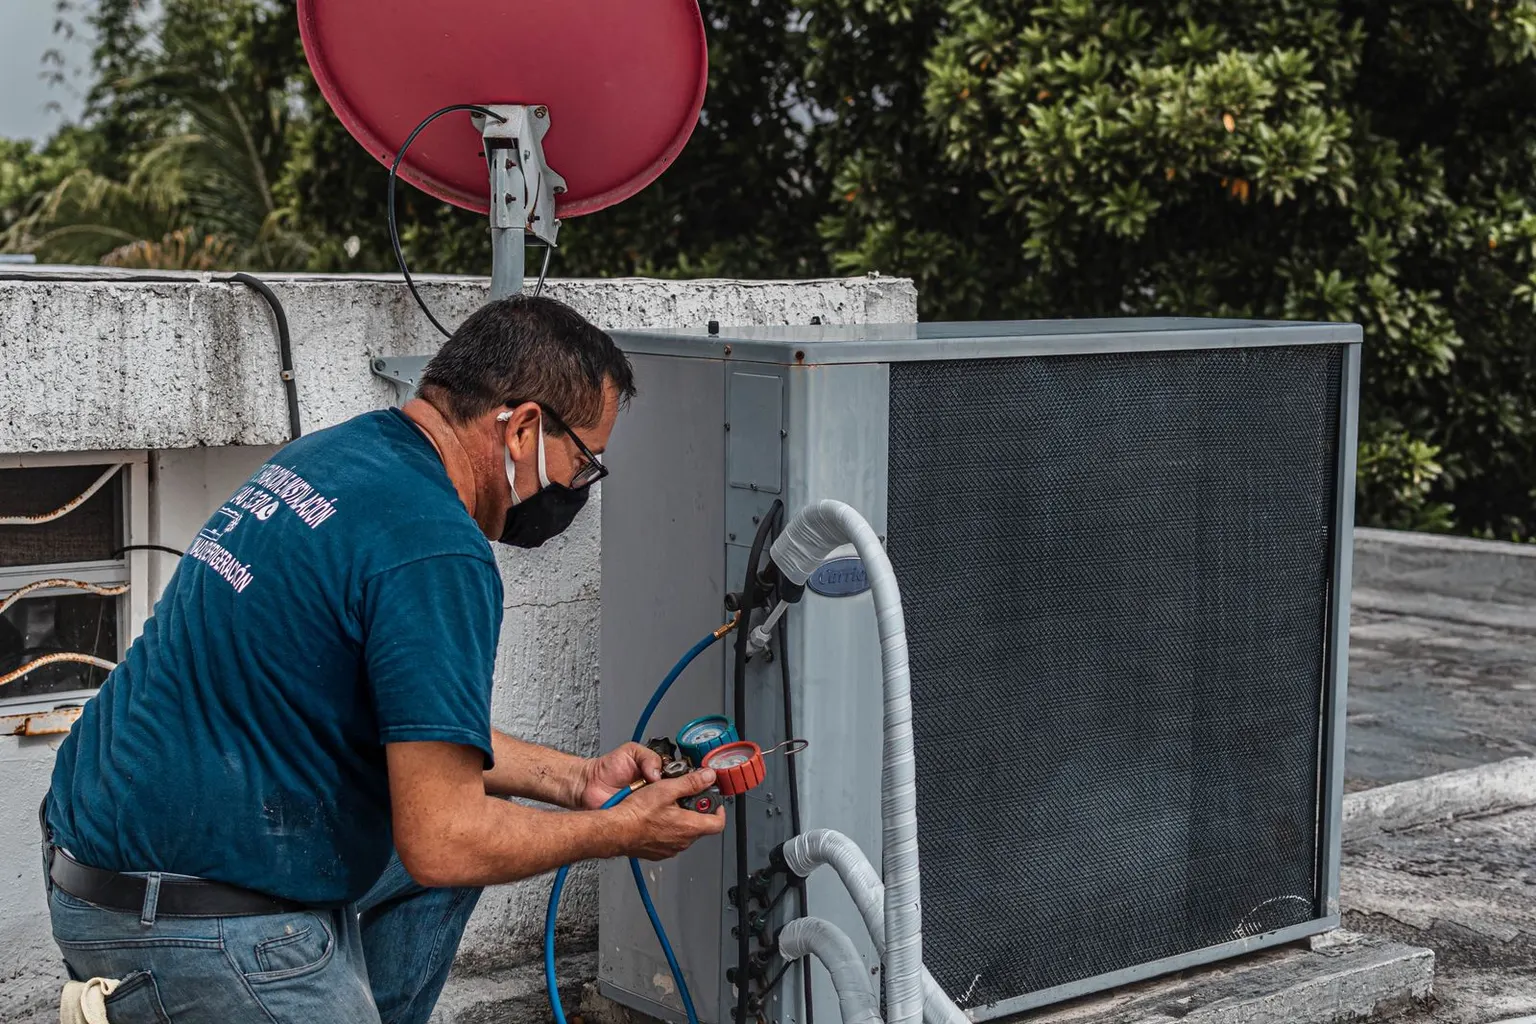
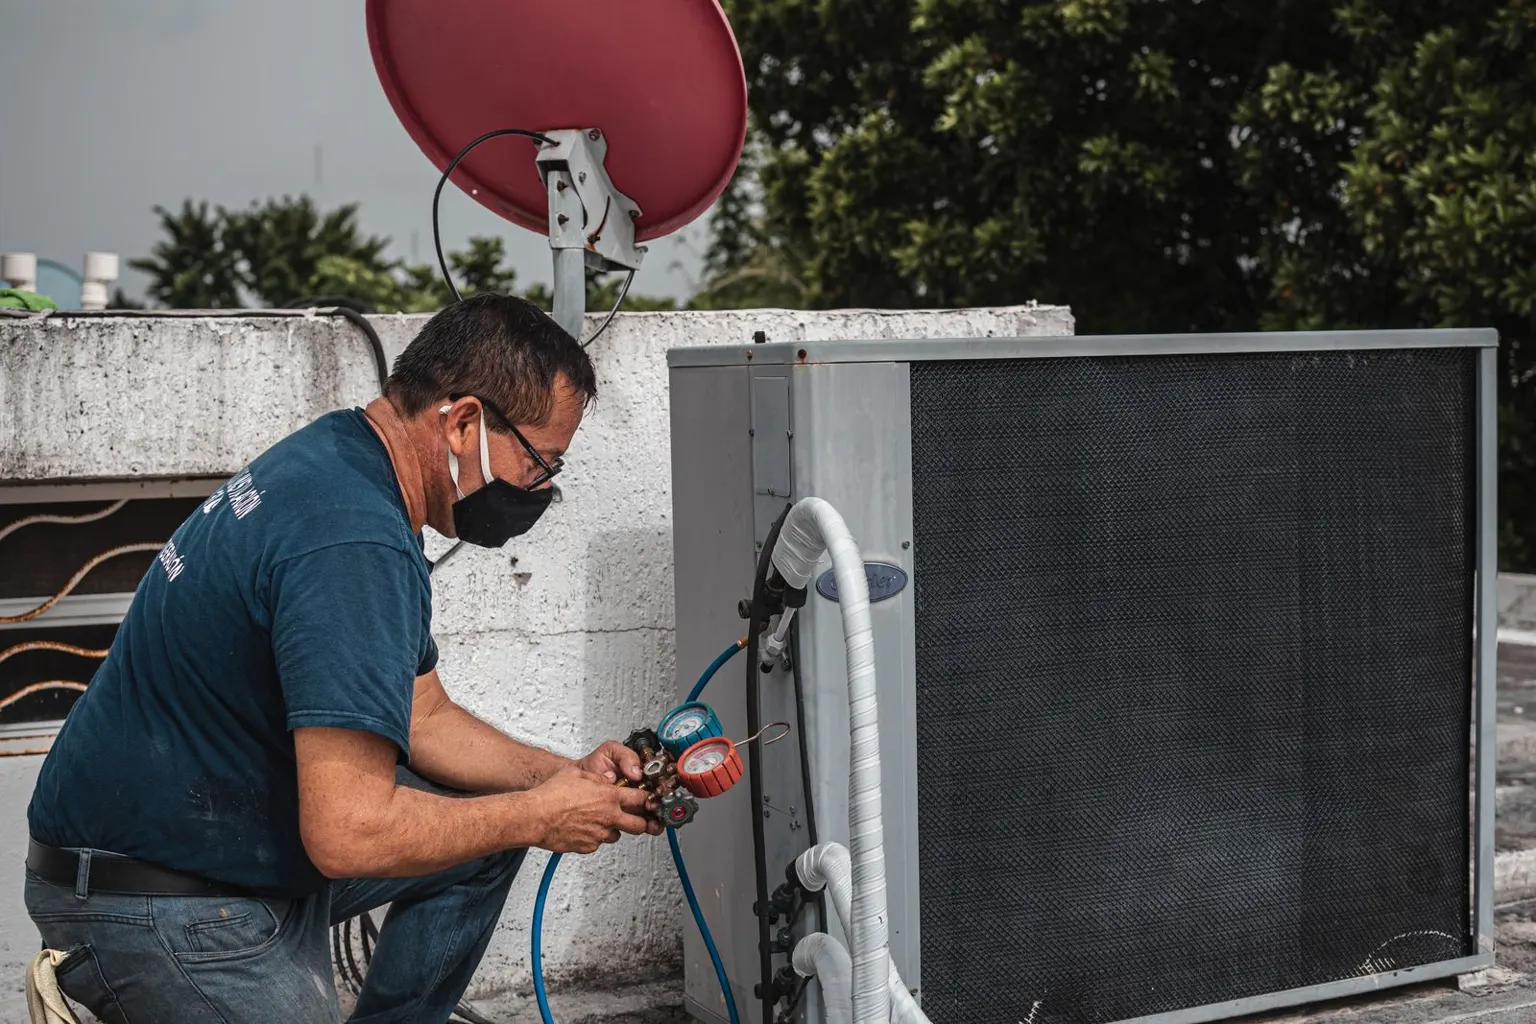
Foto di imbianchino, climatizzazione e babysitter scelte dall'utente
Claude-Session: https://claude.ai/code/session_01AKRgYNzgy5SB81onBt8iwx

diff --git a/apps/web/src/lib/categoryPhotos.ts b/apps/web/src/lib/categoryPhotos.ts
@@ -18,17 +18,17 @@
  * §217 e §219):
  * - idraulico: pexels.com/photo/6419128
  * - elettricista: pexels.com/photo/34054464
- * - imbianchino: Ivan S, pexels.com/photo/5799084
+ * - imbianchino: pexels.com/photo/5493653
  * - pulizie: pexels.com/photo/6196566
  * - giardiniere: pexels.com/photo/6728926
  * - traslochi: Vitaly Gariev, unsplash.com/photos/wS40ELZROLE
  * - fabbro: pexels.com/photo/5691693
- * - climatizzazione: José Andrés Pacheco Cortes, pexels.com/photo/5463575
+ * - climatizzazione: José Andrés Pacheco Cortes, pexels.com/photo/5463579
  * - muratore: pexels.com/photo/5691606
  * - falegname: pexels.com/photo/4888598
  * - tuttofare: pexels.com/photo/5691544
  * - dogsitter: pexels.com/photo/7210537
- * - babysitter: Vitaly Gariev, unsplash.com/photos/IGnXUcRKZzQ
+ * - babysitter: pexels.com/photo/6986430
  *
  * Le foto di `/registrati` e `/per-professionisti` sono copie separate in
  * `public/page-photos/`, così cambiare la foto di una categoria non cambia
@@ -56,6 +56,6 @@ export const CATEGORY_PHOTOS: Partial<Record<string, string>> = {
  * fuori dal bordo. Le categorie non elencate restano centrate.
  */
 export const CATEGORY_PHOTO_FOCUS: Partial<Record<string, string>> = {
-  imbianchino: "72% 50%",
-  climatizzazione: "45% 50%",
+  climatizzazione: "30% 50%",
+  babysitter: "40% 50%",
 };
